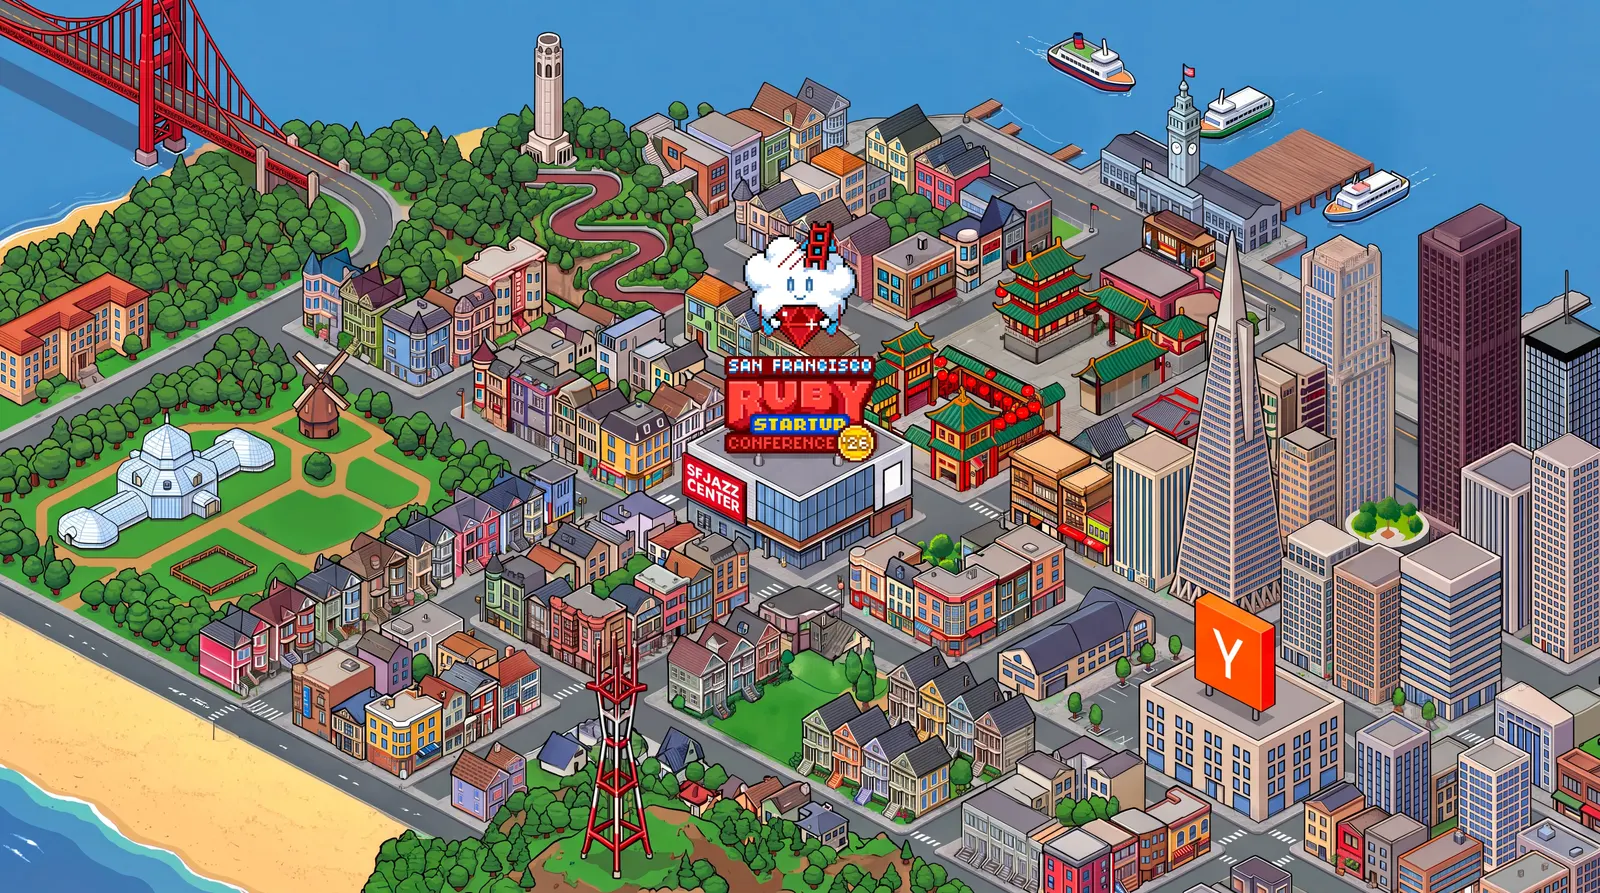
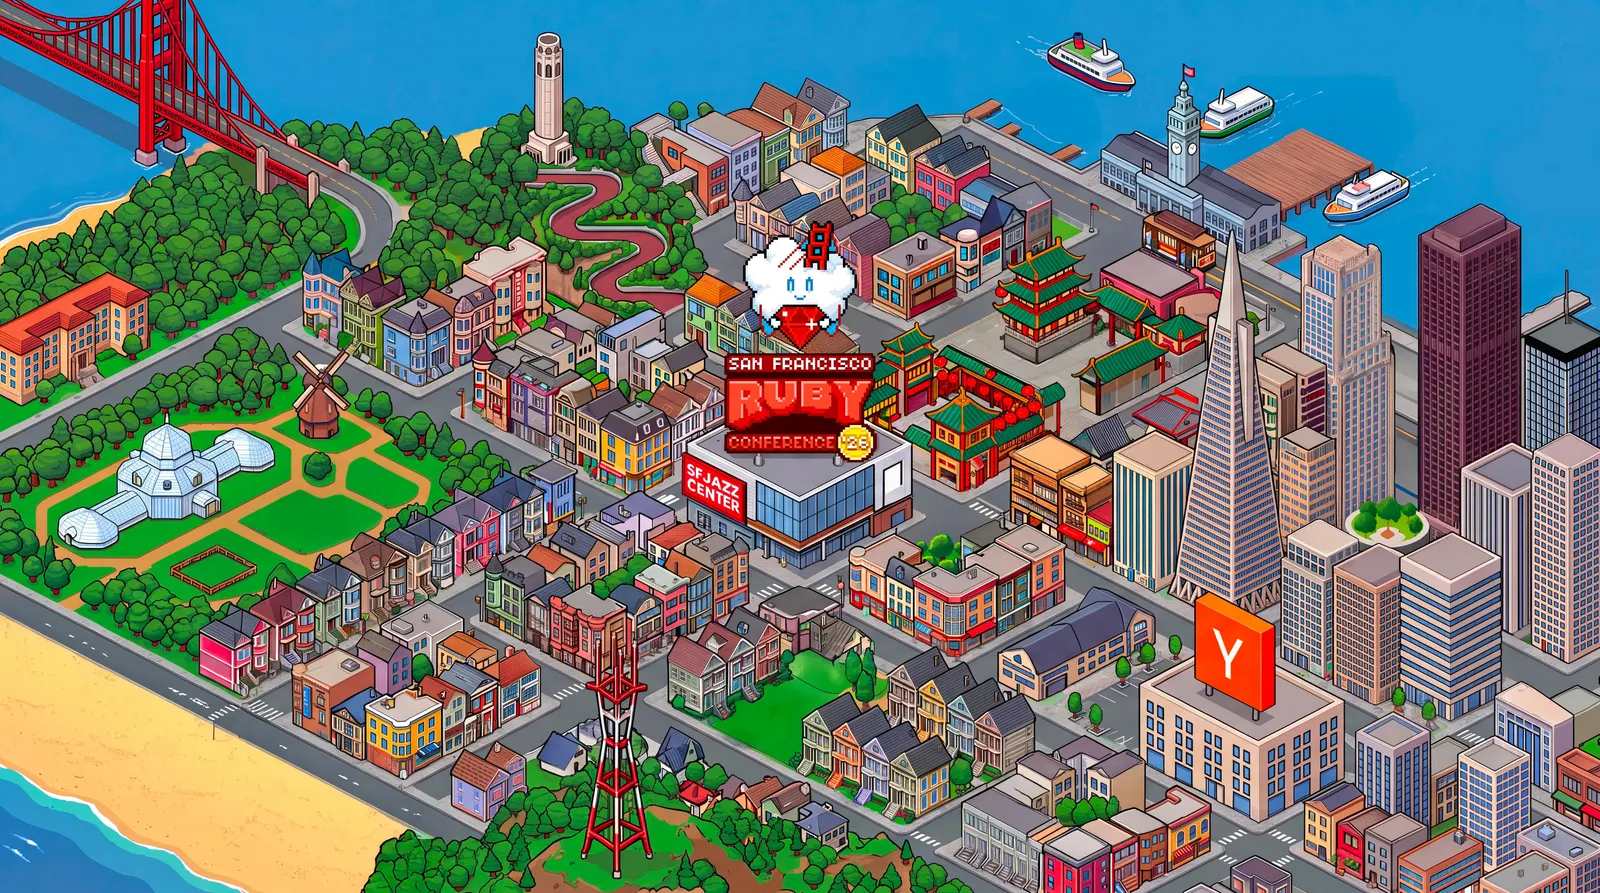
Design polish: small fixes from the site review
- Hero price line says "last day" on the closing day and shows the next
  price once Regular closes, instead of a closed price until the 6 am build
- Coin slot keeps its coin in view when idle, at an exact 2x of the sprite
- Speaker dialog shows the talk text once: from lg up the share card is
  legible, so the repeated time, title and abstract are screen-reader only
- Crew stands on an archipelago of small islands, at the companies' pixel
  scale, instead of one stretched island with a row floating above it
- Remove the stray black tick from px-island.png
- Drop the empty decorative islands from the companies sky
- Cloud Cards and the Pier map re-exported from the game with the
  conference's current name
- /about labels its 58 as conference videos, which is what it counts
- Hero cloud moved out from behind the statement
- Section copy-link icon stays on the heading's last line and gets the
  heading's ink shadow on sky bands
- Day tabs fit one row on phones
- 44px tap areas for the small controls on /jobs and /meetup (tap-hit)

diff --git a/src/styles/pixel.css b/src/styles/pixel.css
@@ -410,13 +410,22 @@
    .px-coinslot__slot. The well clips the coin above and below, so the coin
    appears from above and vanishes "into" the slot. */
 @keyframes px-coin-drop {
+    /* Resting in view most of the loop, so the idle frame reads as a coin
+       over a slot rather than a lone black bar. Drops, then the next coin
+       falls in from above. */
     0%,
-    12% {
+    60% {
+        transform: translateY(10%);
+    }
+    75% {
+        transform: translateY(140%);
+    }
+    76% {
         transform: translateY(-130%);
     }
-    62%,
+    92%,
     100% {
-        transform: translateY(140%);
+        transform: translateY(10%);
     }
 }
 .px-coinslot {
@@ -433,9 +442,10 @@
     justify-content: center;
 }
 .px-coinslot__coin {
-    width: 1.75rem;
-    height: 1.75rem;
-    animation: px-coin-drop 2s cubic-bezier(0.4, 0, 1, 1) infinite;
+    /* 2x the 12px sprite: a fractional scale smears its pixels */
+    width: 1.5rem;
+    height: 1.5rem;
+    animation: px-coin-drop 2.4s cubic-bezier(0.4, 0, 1, 1) infinite;
 }
 .px-coinslot__slot {
     width: 2.75rem;

diff --git a/src/styles/global.css b/src/styles/global.css
@@ -79,6 +79,22 @@ body {
     }
 }
 
+/* A 44px tap area (iOS HIG) around a control that is smaller on screen,
+   without moving anything: the hit box is a ::before centered on the
+   control. ::before because some of these use ::after for a tooltip. */
+.tap-hit {
+    position: relative;
+}
+.tap-hit::before {
+    content: "";
+    position: absolute;
+    left: 50%;
+    top: 50%;
+    width: max(100%, 2.75rem);
+    height: max(100%, 2.75rem);
+    transform: translate(-50%, -50%);
+}
+
 /* Safe-area helpers for fixed bars on notched / home-indicator devices. */
 .pt-safe {
     padding-top: env(safe-area-inset-top);
